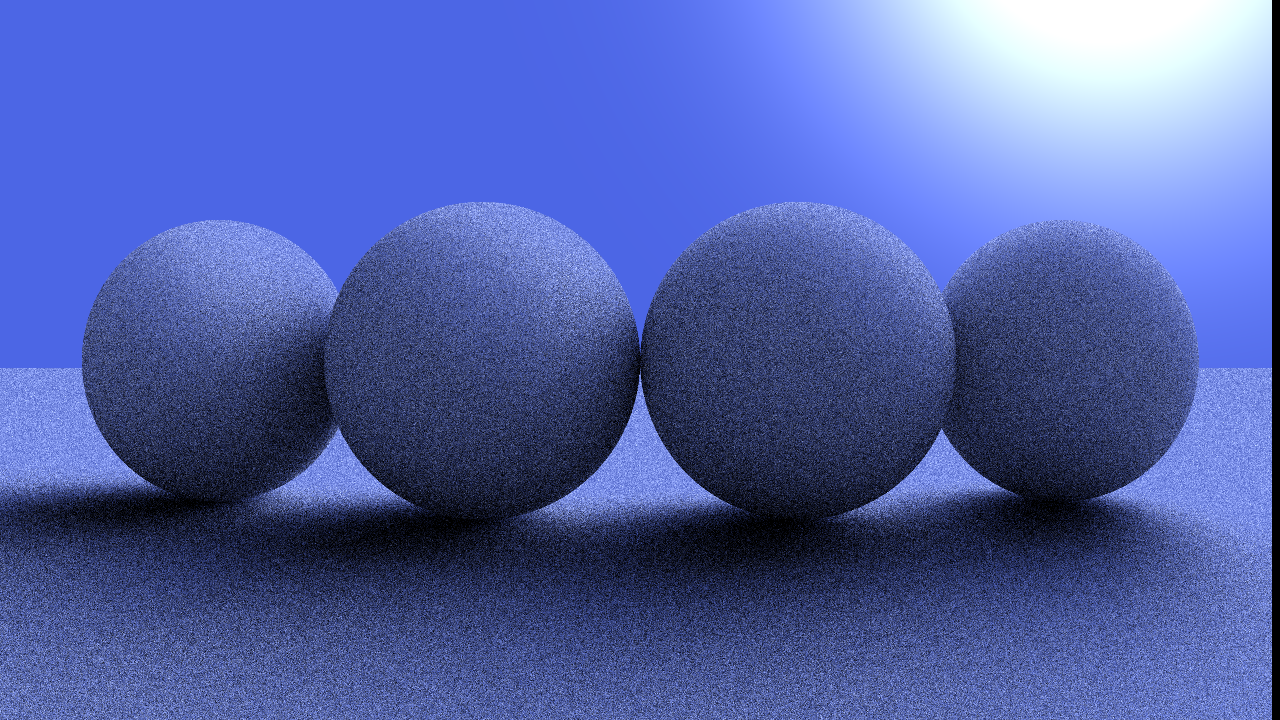
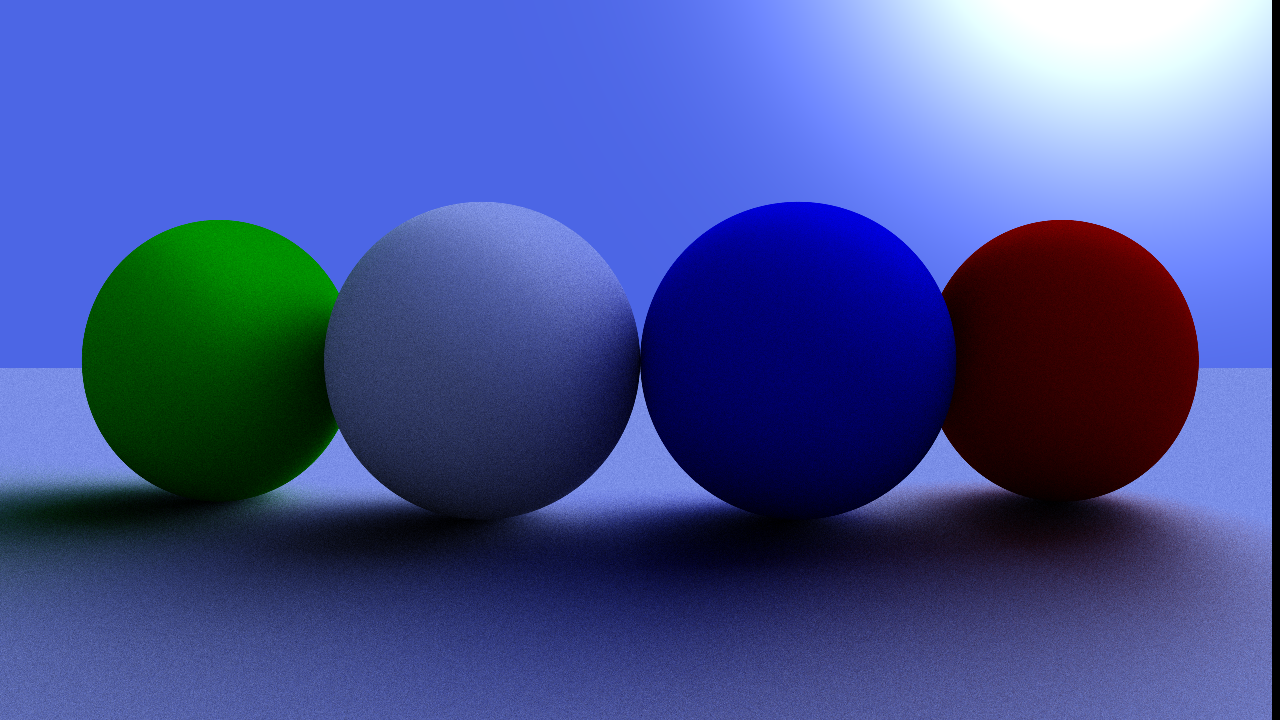
Basic coloring of materials Changed version to 0.0.1 Changed [WRP] (write in-progress) to [WIP] (work in-progress)

diff --git a/renderer/renderer.cpp b/renderer/renderer.cpp
@@ -6,14 +6,13 @@
 #include <stdio.h>
 
 Ray StingrayRenderer::camera_ray(const Vec3& uv) {
-    float FOV = .5 * 3.1415926535897932; // FOV in radians
+    float FOV = 0.5 * 3.1415926535897932; // FOV in radians (set to 90deg)
 
     float angle_xz = (FOV / 2.0f) * uv.x;
     float angle_yz = (FOV / 2.0f) * uv.y;
     float loc_z = cos(angle_xz) * cos(angle_yz);
 
-     Vec3 screen_plane = Vec3(uv.x, uv.y, loc_z);
-    //Vec3 screen_plane = Vec3(loc_x, loc_y, 1.0);
+    Vec3 screen_plane = Vec3(uv.x, uv.y, loc_z);
     Vec3 eye = Vec3(0.0f, 0.0f, -1.0f);
 
     Vec3 direction = screen_plane.normalize();
@@ -24,7 +23,7 @@ Vec3 StingrayRenderer::sky_color(const Vec3& dir) {
     return Vec3(fmaxf(0.0, fminf(1.0, powf(Vec3(3, 3, 3).normalize().dot(dir), 15)))) * Vec3(.9, .9, .7) + Vec3(0.3, 0.4, 0.9);
 }
 
-Vec3 StingrayRenderer::ray_shader(Ray camera, Object *scene, int max_bounces) {
+Vec3 StingrayRenderer::ray_shader(Ray camera, StingrayScene *scene, int max_bounces) {
     //return camera.direction.abs();
     HitInfo intersect = scene->intersect(camera);
 
@@ -39,7 +38,7 @@ Vec3 StingrayRenderer::ray_shader(Ray camera, Object *scene, int max_bounces) {
         }
             // TODO: emission & color
         light = light + color * Vec3(0.0);
-        color = color * Vec3(0.8);
+        color = color * intersect.object->mat()->color();
 
         camera.origin = intersect.position + intersect.normal * 0.0001f;
         camera.direction = rand_in_hemisphere(intersect.normal);
@@ -48,7 +47,7 @@ Vec3 StingrayRenderer::ray_shader(Ray camera, Object *scene, int max_bounces) {
     return light;
 }
 
-void StingrayRenderer::render(int startX, int startY, int endX, int endY, int samples, Object *scene) {
+void StingrayRenderer::render(int startX, int startY, int endX, int endY, int samples, StingrayScene *scene) {
     int status_width = startX - endX / 8;
     for (int x = startX; x <= endX; x++) {
         if (x % status_width == 0) this->buffer.save("_sray_prog.png");

diff --git a/main.cpp b/main.cpp
@@ -3,6 +3,7 @@
 #include "renderer/buffer.hpp"
 #include "renderer/renderer.hpp"
 #include "objects/scene.hpp"
+#include "objects/colormat.hpp"
 
 #define IMG_WIDTH 1280
 #define IMG_HEIGHT 720
@@ -14,17 +15,22 @@ int main(int argc, char *argv[]) {
         filename = argv[1];
     }
 
-    printf("StingRay v0.0.0 [WRP]\n");
+    printf("StingRay v0.0.1 [WIP]\n");
 
     RenderBuffer img = RenderBuffer(IMG_WIDTH, IMG_HEIGHT);
     StingrayRenderer renderer = StingrayRenderer(img);
 
+    ColorMaterial red   = ColorMaterial(Vec3(0.8, 0.0, 0.0));
+    ColorMaterial green = ColorMaterial(Vec3(0.0, 0.8, 0.0));
+    ColorMaterial blue  = ColorMaterial(Vec3(0.0, 0.0, 0.8));
+    ColorMaterial white = ColorMaterial(Vec3(0.8, 0.8, 0.8));
+
     StingrayScene *scene = new StingrayScene({
-        new Sphere(Vec3(-0.5, 0, 1), 0.5),
-        new Sphere(Vec3( 0.5, 0, 1), 0.5),
-        new Sphere(Vec3(-1.5, 0, 1), 0.5),
-        new Sphere(Vec3( 1.5, 0, 1), 0.5),
-        new Sphere(Vec3(0.0, -9999.5, 0.0), 9999.0)
+        new Sphere(Vec3(-0.5, 0, 1), 0.5,           &white),
+        new Sphere(Vec3( 0.5, 0, 1), 0.5,           &blue),
+        new Sphere(Vec3(-1.5, 0, 1), 0.5,           &green),
+        new Sphere(Vec3( 1.5, 0, 1), 0.5,           &red),
+        new Sphere(Vec3(0.0, -9999.5, 0.0), 9999.0, &white)
     });
 
         // TODO: multithreading

diff --git a/objects/sphere.hpp b/objects/sphere.hpp
@@ -4,18 +4,19 @@
 #include "object.hpp"
 #include "../util/vec3.hpp"
 #include "../renderer/ray.hpp"
+#include "../renderer/material.hpp"
 
 class Sphere : public Object {
 private:
     Vec3 center;
     float radius;
+    Material *material;
 
 public:
-    Sphere() {}
-
-    Sphere(const Vec3& center, float radius) {
+    Sphere(const Vec3& center, float radius, Material *mat) {
         this->center = center;
         this->radius = radius;
+        this->material = mat;
     }
 
     // Thanks to https://raytracing.github.io/books/RayTracingInOneWeekend.html
@@ -38,6 +39,8 @@ public:
             return HitInfo { true, r, dist, pos, normal, this };
         }
     }
+
+    Material *mat() { return this->material; }
 };
 
 #endif

diff --git a/renderer/renderer.hpp b/renderer/renderer.hpp
@@ -11,13 +11,13 @@ private:
 
     Ray camera_ray(const Vec3& uv);
     Vec3 sky_color(const Vec3& dir);
-    Vec3 ray_shader(Ray camera, Object* scene, int max_bounces=5);
+    Vec3 ray_shader(Ray camera, StingrayScene *scene, int max_bounces=5);
 
 public:
     StingrayRenderer(RenderBuffer &buffer) : buffer(buffer) { };
 
     // Renders a portion of the image (in a rectangle)
-    void render(int startX, int startY, int endX, int endY, int samples, Object *scene); 
+    void render(int startX, int startY, int endX, int endY, int samples, StingrayScene *scene); 
 };
 
 #endif

diff --git a/objects/colormat.hpp b/objects/colormat.hpp
@@ -1,0 +1,18 @@
+#ifndef COLORMAT_HPP
+#define COLORMAT_HPP
+
+#include "../renderer/material.hpp"
+#include "../util/vec3.hpp"
+
+class ColorMaterial : public Material {
+private:
+    Vec3 col;
+public:
+    ColorMaterial(Vec3 col) {
+        this->col = col;
+    }
+
+    Vec3 color() { return this->col; }
+};
+
+#endif

diff --git a/objects/object.hpp b/objects/object.hpp
@@ -4,10 +4,12 @@
 class Object;
 
 #include "../renderer/ray.hpp"
+#include "../renderer/material.hpp"
 
 // Abstract base class for all objects
 class Object {
 public:
+    virtual Material *mat() = 0;
     virtual HitInfo intersect(const Ray& ray) = 0;
 };
 

diff --git a/renderer/material.hpp b/renderer/material.hpp
@@ -1,0 +1,15 @@
+#ifndef MATERIAL_HPP
+#define MATERIAL_HPP
+
+#include "../util/vec3.hpp"
+
+
+/*
+ * TODO: scattering (brdf)
+ */
+class Material {
+public:
+    virtual Vec3 color() = 0;
+};
+
+#endif

diff --git a/objects/scene.hpp b/objects/scene.hpp
@@ -5,7 +5,7 @@
 #include "sphere.hpp"
 #include <vector>
 
-class StingrayScene : public Object {
+class StingrayScene {
 private:
     std::vector<Object*> objects; // eww C++ style code
 
